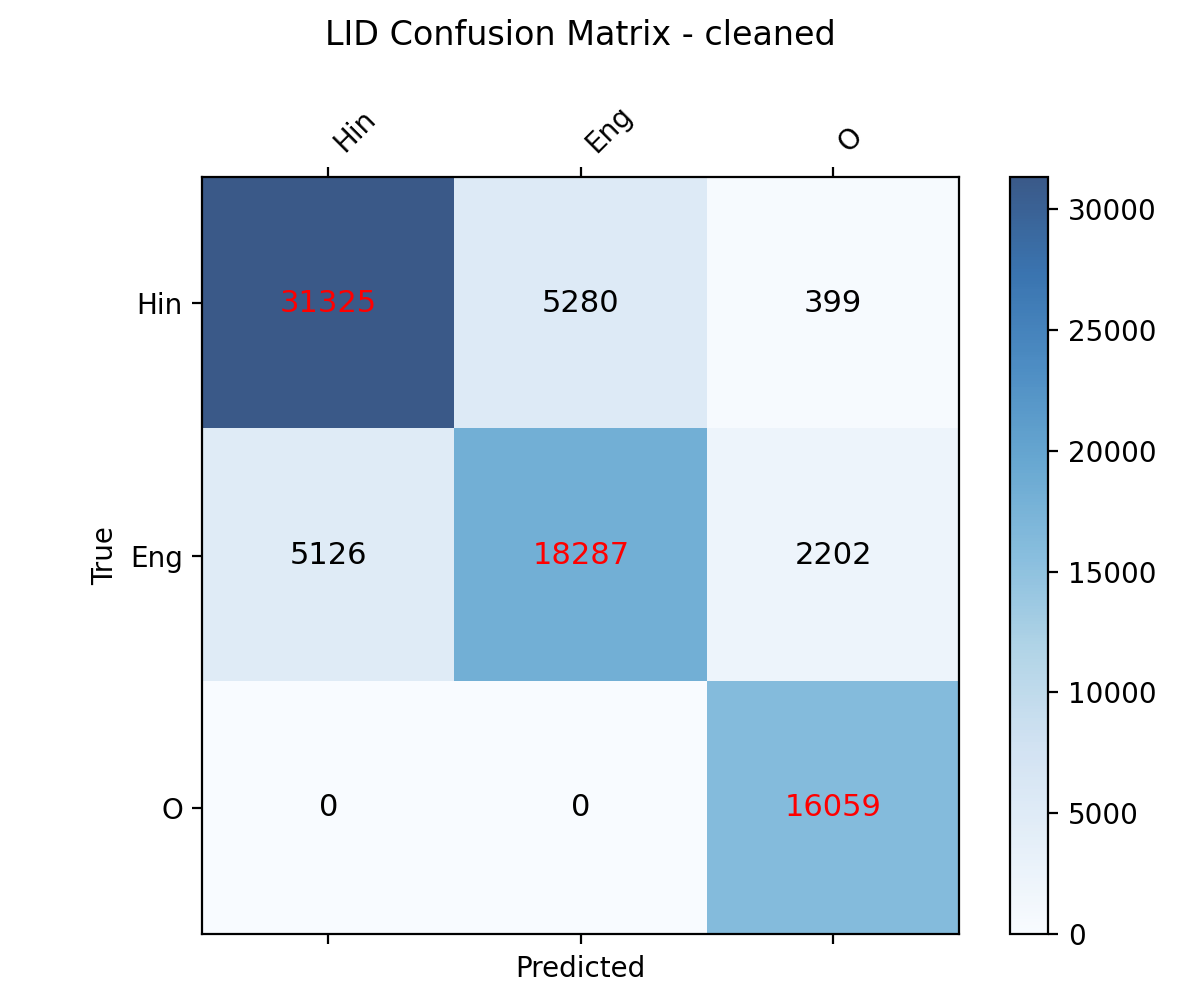
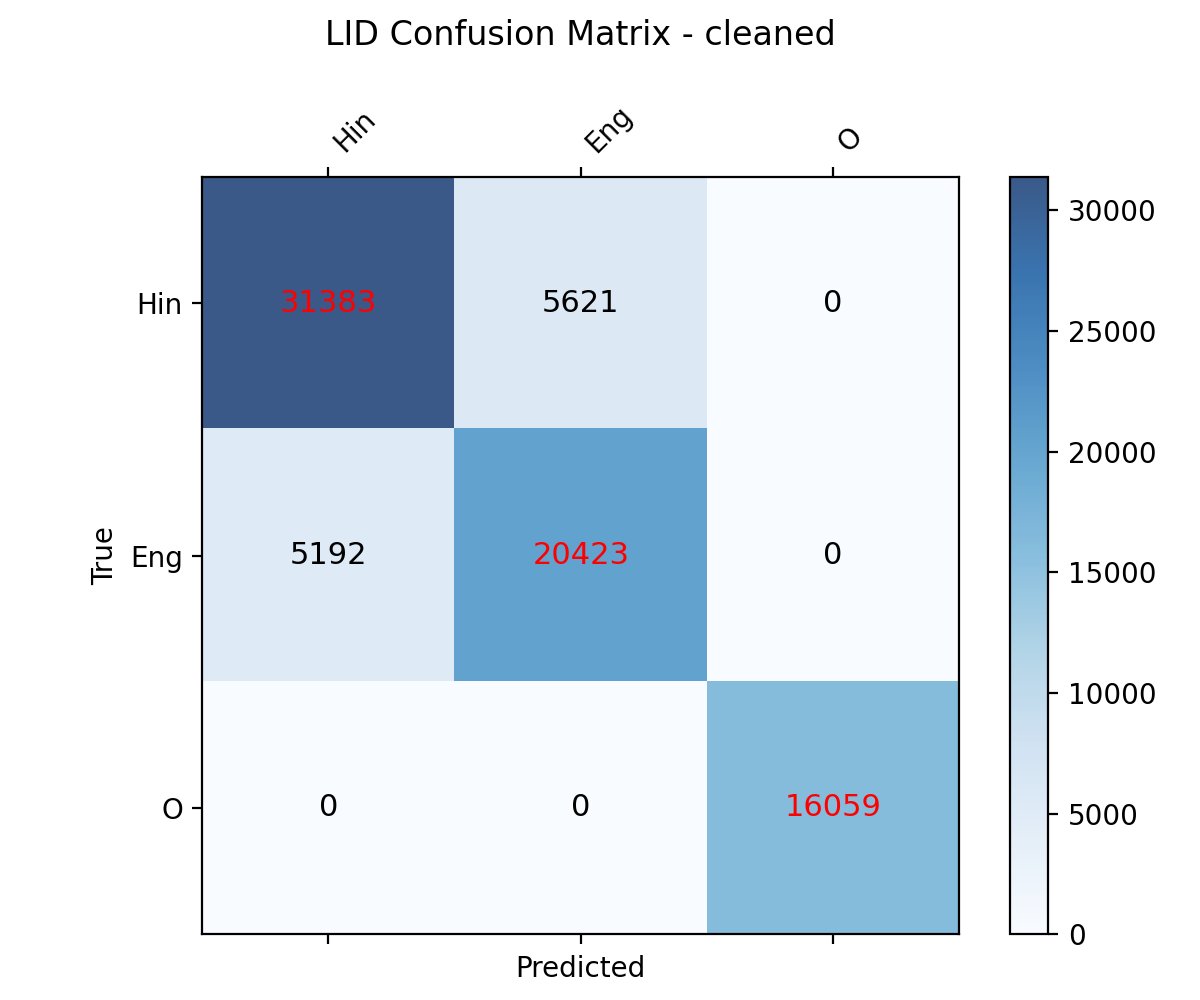
Task 2: LID cleanup, O-rule, smoke isolation

diff --git a/src/run_lid_experiments.py b/src/run_lid_experiments.py
@@ -17,6 +17,8 @@ import pickle
 os.environ.setdefault("MPLCONFIGDIR", "/tmp/matplotlib")
 import pandas as pd
 
+from collections import Counter
+
 from src.data_io import load_dataset
 from src.normalise import (
     clean_token,
@@ -30,6 +32,7 @@ from src.lid import (
     LID_LABELS,
     build_flat_token_label_lists,
     predict_tweets,
+    _is_language_independent,
 )
 from src.eval_utils import (
     compute_metrics,
@@ -37,11 +40,6 @@ from src.eval_utils import (
     plot_confusion_matrix,
     save_dataframe_csv,
 )
-
-CACHE_DIR = "results/cache"
-os.makedirs(CACHE_DIR, exist_ok=True)
-os.makedirs("results", exist_ok=True)
-
 
 def add_cleaned_tokens(tweets: list[dict]) -> None:
     """Add 'cleaned_tokens' field to each tweet in-place."""
@@ -67,13 +65,15 @@ def run_condition(
     train_tweets: list[dict],
     dev_tweets: list[dict],
     tokens_key: str,
+    out_dir: str,
+    cache_dir: str,
     smoke_test: bool = False,
-) -> dict:
-    """Train LID, evaluate on dev, save results. Returns metrics dict."""
+) -> tuple[dict, dict]:
+    """Train LID, evaluate on dev, save results. Returns (metrics_dict, rule_stats_dict)."""
     print(f"\n--- Condition: {name} (tokens_key={tokens_key}) ---")
 
     cache_key = get_cache_key(smoke_test)
-    model_path = os.path.join(CACHE_DIR, f"lid_{name}_{cache_key}.pkl")
+    model_path = os.path.join(cache_dir, f"lid_{name}_{cache_key}.pkl")
 
     if os.path.exists(model_path):
         print("  Loading cached model...")
@@ -102,22 +102,44 @@ def run_condition(
     metrics = compute_metrics(y_true, y_pred, labels=LID_LABELS)
     print(f"  Accuracy: {metrics['accuracy']:.4f}  Macro-F1: {metrics['macro_f1']:.4f}")
 
+    # Count tokens routed by O-rule on dev
+    rule_tokens = 0
+    gold_counts = Counter()
+    for tweet in eval_tweets:
+        for tok, tag in zip(tweet[tokens_key], tweet['tags']):
+            if _is_language_independent(tok):
+                rule_tokens += 1
+                gold_counts[TAG_MAP.get(tag, 'O')] += 1
+
+    rule_stats = {
+        'condition': name,
+        'rule_tokens': rule_tokens,
+        'gold_O': gold_counts.get('O', 0),
+        'gold_Hin': gold_counts.get('Hin', 0),
+        'gold_Eng': gold_counts.get('Eng', 0),
+    }
+
     # Save per-class report
     report_df = get_classification_report_df(y_true, y_pred, labels=LID_LABELS)
     report_df.insert(0, 'condition', name)
-    save_dataframe_csv(report_df, f"results/lid_{name}.csv")
+    save_dataframe_csv(report_df, os.path.join(out_dir, f"lid_{name}.csv"))
 
     # Save confusion matrix
     plot_confusion_matrix(
         y_true, y_pred, labels=LID_LABELS,
-        output_path=f"results/lid_{name}.png",
+        output_path=os.path.join(out_dir, f"lid_{name}.png"),
         title=f"LID Confusion Matrix - {name}",
     )
 
-    return {'condition': name, **metrics}
+    return {'condition': name, **metrics}, rule_stats
 
 
 def main(smoke_test: bool = False) -> None:
+    out_dir = "results_smoke" if smoke_test else "results"
+    cache_dir = os.path.join(out_dir, "cache")
+    os.makedirs(cache_dir, exist_ok=True)
+    os.makedirs(out_dir, exist_ok=True)
+
     print("Loading data...")
     train_tweets, dev_tweets = load_dataset()
 
@@ -127,7 +149,7 @@ def main(smoke_test: bool = False) -> None:
 
     print("Building variant dictionary (train only)...")
     cache_key = get_cache_key(smoke_test)
-    variant_dict_path = os.path.join(CACHE_DIR, f"variant_dict_{cache_key}.pkl")
+    variant_dict_path = os.path.join(cache_dir, f"variant_dict_{cache_key}.pkl")
     if os.path.exists(variant_dict_path):
         with open(variant_dict_path, 'rb') as f:
             import pickle
@@ -146,6 +168,7 @@ def main(smoke_test: bool = False) -> None:
     add_normalised_tokens(dev_tweets, variant_dict)
 
     comparison_rows = []
+    rule_rows = []
 
     # Run all three conditions
     for name, key in [
@@ -153,20 +176,22 @@ def main(smoke_test: bool = False) -> None:
         ('cleaned', 'cleaned_tokens'),
         ('normalised', 'normalised_tokens'),
     ]:
-        # Clear cache for smoke test to retrain on subset
-        if smoke_test:
-            cache_key = get_cache_key(smoke_test)
-            model_path = os.path.join(CACHE_DIR, f"lid_{name}_{cache_key}.pkl")
-            if os.path.exists(model_path):
-                os.remove(model_path)
-
-        metrics = run_condition(name, train_tweets, dev_tweets, key, smoke_test=smoke_test)
+        metrics, rule_stats = run_condition(
+            name, train_tweets, dev_tweets, key,
+            out_dir=out_dir, cache_dir=cache_dir, smoke_test=smoke_test
+        )
         comparison_rows.append(metrics)
+        rule_rows.append(rule_stats)
 
     comparison_df = pd.DataFrame(comparison_rows)
-    save_dataframe_csv(comparison_df, "results/lid_comparison.csv")
+    save_dataframe_csv(comparison_df, os.path.join(out_dir, "lid_comparison.csv"))
+    rule_df = pd.DataFrame(rule_rows)
+    save_dataframe_csv(rule_df, os.path.join(out_dir, "lid_rule_stats.csv"))
+
     print("\n=== LID Comparison ===")
     print(comparison_df.to_string(index=False))
+    print("\n=== LID Rule Stats ===")
+    print(rule_df.to_string(index=False))
 
 
 if __name__ == "__main__":

diff --git a/src/lid.py b/src/lid.py
@@ -22,9 +22,9 @@ For Phase 4 we train in three conditions:
 import os
 import pickle
 import math
-from collections import defaultdict, Counter
+from collections import Counter
 
-from src.cl1 import get_phonetic_hash
+from src.normalise import URL_RE, MENTION_RE
 
 # Mapping from SentiMix gold tags to our LID label set
 TAG_MAP = {
@@ -48,9 +48,18 @@ def _char_ngrams(word: str, n_min: int, n_max: int) -> list[str]:
     return ngrams
 
 
+def _is_language_independent(tok: str) -> bool:
+    """Return True if token contains no letters, or is a URL / mention."""
+    if not tok:
+        return True
+    if tok in ('<url>', '<user>') or URL_RE.fullmatch(tok) or MENTION_RE.fullmatch(tok):
+        return True
+    return not any(c.isalpha() for c in tok)
+
+
 class NaiveBayesLID:
     """
-    Character n-gram Naive Bayes LID with phonetic fallback.
+    Character n-gram Naive Bayes LID with context smoothing, no phonetic fallback.
     Trains on (token, label) pairs; labels must be in LID_LABELS.
     Context smoothing: use the majority label of neighbour tokens
     to break ties (window=2, weight=0.1).
@@ -64,8 +73,6 @@ class NaiveBayesLID:
         self.ngram_counts: dict[str, dict[str, int]] = {}
         self.vocab: set[str] = set()
         self.total_ngrams: dict[str, int] = {}
-        # Phonetic hash -> majority label (fallback)
-        self.phash_label: dict[str, str] = {}
 
     def fit(self, tokens: list[str], labels_seq: list[str]) -> 'NaiveBayesLID':
         """Train on flat lists of tokens and their labels."""
@@ -86,14 +93,6 @@ class NaiveBayesLID:
                 self.ngram_counts[ng][lbl] = self.ngram_counts[ng].get(lbl, 0) + 1
                 self.vocab.add(ng)
             self.total_ngrams[lbl] = self.total_ngrams.get(lbl, 0) + len(ngrams)
-
-        # Phonetic fallback: map each phonetic hash to its majority label
-        phash_label_counts: dict[str, Counter] = defaultdict(Counter)
-        for tok, lbl in zip(tokens, labels_seq):
-            ph = get_phonetic_hash(tok.lower())
-            phash_label_counts[ph][lbl] += 1
-        self.phash_label = {ph: cnt.most_common(1)[0][0]
-                            for ph, cnt in phash_label_counts.items()}
         return self
 
     def _score_token(self, tok: str) -> dict[str, float]:
@@ -120,8 +119,7 @@ class NaiveBayesLID:
 
         raw_scores = []
         for tok in tokens:
-            # Non-alphabetic tokens (numbers, punctuation, emoji) -> O directly
-            if not tok.lower().replace("'", "").isalpha():
+            if _is_language_independent(tok):
                 raw_scores.append({lbl: (1.0 if lbl == 'O' else 0.0) for lbl in self.labels})
             else:
                 raw_scores.append(self._score_token(tok))

diff --git a/CHANGELOG.md b/CHANGELOG.md
@@ -5,4 +5,5 @@
 | Task 0 Baseline | Tagged v1-reviewed and archived v1 results | CHANGELOG.md, results_v1/ | eb1357d |
 | Task 1 (I1, I6, I7) | Guarded variant dictionary (Hin/Eng share, min len 3, difflib >= 0.7, cycle-free chains, CL-1 rejections), ASCII-only elongation collapse, 1-to-1 assert, stats with 20 seeded-random groups, tests/check_normalise.py | src/normalise.py, src/run_lid_experiments.py, tests/check_normalise.py, results/variant_dict.json, results/normalisation_stats.csv, results/normalisation_stats_examples.csv | 813927b |
 | Task 1 Steps 1-5 & 7 | Unpack (variant_dict, rejections) across all callers, keyed cache paths in all scripts, NEVER_SOURCE guard, entries by source in stats, check_normalise test suite with forbidden keys and space checks | src/normalise.py, src/run_lid_experiments.py, src/run_baseline.py, src/run_lid_error_analysis.py, tests/check_normalise.py, results/normalisation_stats.csv, results/variant_dict.json | a29b29d |
-| Task 1 Step 6 | Refactor build_variant_dictionary into small helpers (<40 lines: _group_by_phonetic_hash, _learn_variants, _add_cl1_entries) with verified identical output | src/normalise.py | 6e12e49 |
+| Task 1 Step 6 | Refactor build_variant_dictionary into small helpers (<40 lines: _group_by_phonetic_hash, _learn_variants, _add_cl1_entries) with verified identical output | src/normalise.py | 5d43aeb |
+| Task 2 (I4, I5) | LID cleanup (remove phash_label), O-rule (_is_language_independent), dev rule stats (results/lid_rule_stats.csv), smoke isolation to results_smoke/ | src/lid.py, src/run_lid_experiments.py, results/lid_rule_stats.csv, results/lid_* | pending |
